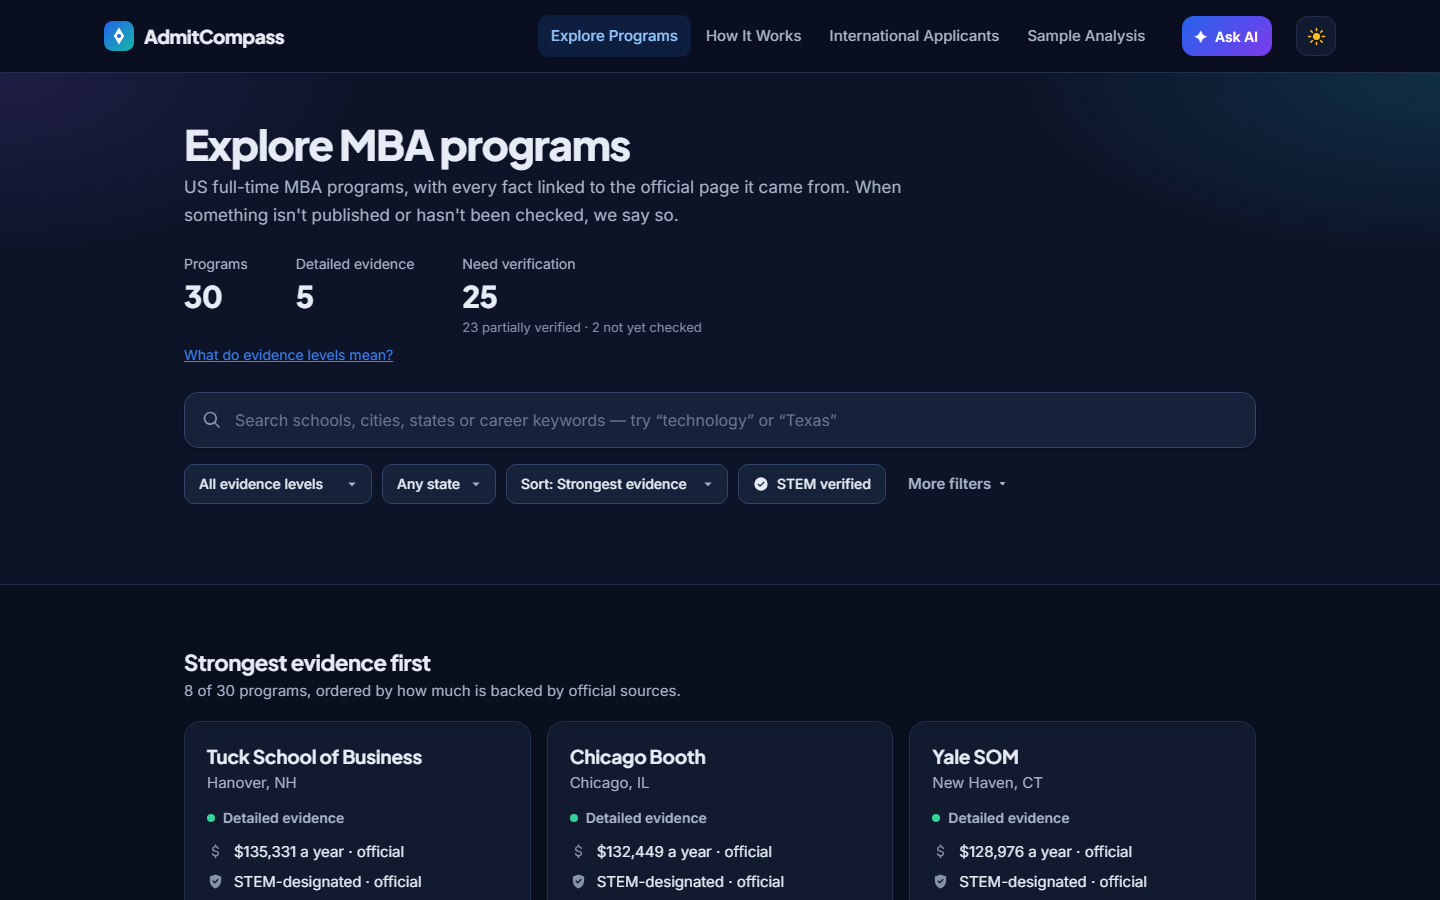
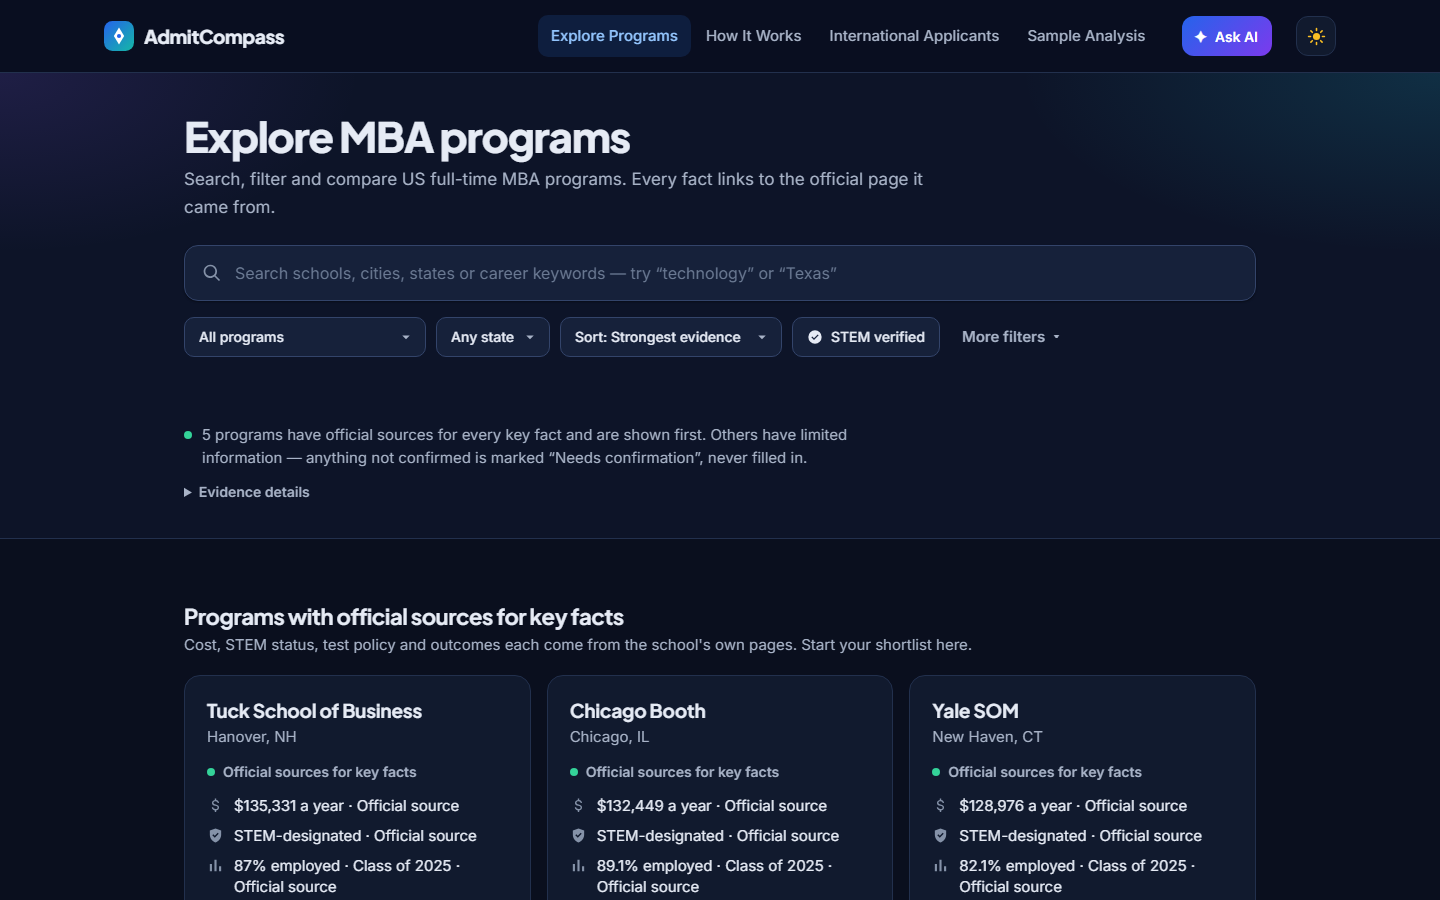
Simplify Explore header and evidence-status presentation
- Header leads with search and filters; three counters replaced by one quiet
  evidence note with an expandable Evidence details section (exact counts).
- Programs with official sources for key facts form the primary catalog;
  the rest sit under More programs to review.
- Plain-language card labels (Official source, Needs confirmation,
  Limited information); technical labels kept in Details and the legend.

diff --git a/frontend/app.js b/frontend/app.js
@@ -677,6 +677,8 @@ const EV = {
   discovered: { label: "Discovered", icon: "search", plain: "We've confirmed the program exists on its official page, but haven't collected its facts yet." },
   unavailable: { label: "Retrieval unavailable", icon: "alert", plain: "The official site refused our automated collector, so nothing about this program is verified yet." },
 };
+const EV_PLAIN = { detailed: "Official sources for key facts", partial: "Limited information", discovered: "Limited information · facts not collected yet",
+  unavailable: "Limited information · site couldn't be checked" };
 const FACT_SHORT = { location: "Location", duration_months: "Duration", application_requirements: "Requirements", test_policy: "Test policy", tuition: "Tuition",
   cost_of_attendance: "Total cost", stem_designation: "STEM", employment_rate: "Employment", median_base_salary: "Salary", industry_breakdown: "Industries",
   function_breakdown: "Functions", international_employment: "Intl. outcomes", sponsorship: "Sponsorship", application_deadlines: "Deadlines" };
@@ -687,8 +689,9 @@ async function renderExplore() {
   delete f.tier;
   S.compare = S.compare || [];
   let meta = null, seq = 0, first = null, showAll = false;
-  const FEATURED = 8;
+  const isPrimary = it => it.evidence_status === "detailed";
   const filtersActive = () => !!(f.q || f.status || f.state || f.stem || num(f.max) || f.savedOnly);
+  const moreBox = el("div");
   const grid = el("div", { class: "ex-grid", "aria-live": "polite" }), metaLine = el("div", { class: "ex-meta" }), active = el("div", { class: "active-row" }), tray = el("div");
   try { first = await api("/api/programs"); } catch { /* load() shows the error */ }
   const by = first?.counts?.by_evidence_status || {}, idx = first?.index || {};
@@ -699,7 +702,8 @@ async function renderExplore() {
   const searchInput = el("input", { type: "search", "aria-label": "Search programs", placeholder: "Search schools, cities, states or career keywords — try “technology” or “Texas”",
     oninput: e => { f.q = e.target.value; deb(load); } });
   const statusSel = el("select", { "aria-label": "Evidence status", onchange: e => { f.status = e.target.value; load(); } },
-    [["", "All evidence levels"], ...Object.entries(EV).map(([k, v]) => [k, v.label])].map(([v, t]) => el("option", { value: v, text: t })));
+    [["", "All programs"], ["detailed", "Official sources for key facts"], ["partial", "Limited information"], ["discovered", "Facts not collected yet"], ["unavailable", "Site couldn't be checked"]]
+      .map(([v, t]) => el("option", { value: v, text: t })));
   const stateSel = el("select", { "aria-label": "State", onchange: e => { f.state = e.target.value; load(); } }, el("option", { value: "", text: "Any state" }),
     (first?.states || []).map(s => el("option", { value: s, text: s })));
   const maxIn = el("input", { type: "number", inputmode: "numeric", min: 1000, step: 1000, "aria-label": "Maximum yearly cost of attendance in USD", placeholder: "Max cost / yr (USD)",
@@ -736,18 +740,27 @@ async function renderExplore() {
     if (!meta) return;
     const saved = savedSet();
     const items = f.savedOnly ? meta.items.filter(i => saved.has(i.id)) : meta.items;
-    const featured = !filtersActive() && !showAll && items.length > FEATURED;
-    const shown = featured ? items.slice(0, FEATURED) : items;
-    put(clear(metaLine), el("h2", { class: "ex-h", text: featured ? "Strongest evidence first" : filtersActive() ? `${items.length} matching program${items.length === 1 ? "" : "s"}` : `All ${items.length} programs` }),
-      el("span", { class: "ex-sub", text: featured ? `${FEATURED} of ${items.length} programs, ordered by how much is backed by official sources.` : `${sortHelp[f.sort]}.${(f.stem || num(f.max)) ? " Cost and STEM filters only match facts with official evidence." : ""}` }));
+    const primary = items.filter(isPrimary), others = items.filter(it => !isPrimary(it));
+    const grouped = !filtersActive() && primary.length > 0;
+    const shown = grouped ? primary : items;
+    put(clear(metaLine), el("h2", { class: "ex-h", text: grouped ? "Programs with official sources for key facts" : filtersActive() ? `${items.length} matching program${items.length === 1 ? "" : "s"}` : "All programs" }),
+      el("span", { class: "ex-sub", text: grouped ? "Cost, STEM status, test policy and outcomes each come from the school's own pages. Start your shortlist here."
+        : `${sortHelp[f.sort]}.${(f.stem || num(f.max)) ? " Cost and STEM filters only match facts with official evidence." : ""}` }));
     clear(grid);
     if (!items.length) { put(grid, el("div", { class: "empty2" }, el("b", { text: f.savedOnly ? "No saved programs yet" : "No programs match" }),
       el("p", { class: "small", style: "margin:6px 0 12px", text: f.savedOnly ? "Tap the heart on any program to save it." : "Try removing a filter." }),
       el("button", { type: "button", class: "btn btn-secondary", onclick: () => { Object.assign(f, DEFAULT_FILTERS); load(); }, text: "Reset filters" }))); return; }
     put(grid, shown.map(it => card(it, saved)));
-    if (!filtersActive() && items.length > FEATURED)
-      put(grid, el("div", { class: "ex-more" }, el("button", { type: "button", class: "btn btn-secondary", onclick: () => { showAll = !showAll; drawList(); if (!showAll) metaLine.scrollIntoView({ block: "start" }); },
-        text: showAll ? "Show the strongest-evidence programs only" : `View all ${items.length} programs` })));
+    clear(moreBox);
+    if (grouped && others.length) {
+      put(moreBox, el("div", { class: "ex3-more" },
+        el("h2", { class: "ex-h", text: "More programs to review" }),
+        el("p", { class: "ex-sub", text: "Limited information: some facts for these programs come from official pages, and the rest are marked “Needs confirmation”. Check them on the school's site before relying on them." }),
+        showAll ? el("div", { class: "ex-grid" }, others.map(it => card(it, saved))) : null,
+        el("button", { type: "button", class: "btn btn-secondary", "aria-expanded": showAll ? "true" : "false",
+          onclick: () => { showAll = !showAll; drawList(); if (!showAll) moreBox.scrollIntoView({ block: "start" }); },
+          text: showAll ? "Hide these programs" : "Show more programs" })));
+    }
     drawTray();
   };
   const load = async () => {
@@ -763,37 +776,41 @@ async function renderExplore() {
   function card(it, saved) {
     const st = it.evidence_status, ev = EV[st], where = [it.city, it.state].filter(Boolean).join(", ") || "Location not confirmed";
     const coa = it.cost_of_attendance, est = it.costs?.estimate_annual, emp = it.employment;
-    const cost = coa ? `${fmtUSD(coa.value)} a year · official` : est ? `About ${fmtUSD(est.value)} a year · ${est.publisher} estimate`
-      : it.tuition ? `Tuition ${fmtUSD(it.tuition.value)} a year · total not published` : "Total cost not published";
-    const stem = it.stem_designated === true ? (it.stem_partial ? "STEM-designated tracks · official" : "STEM-designated · official") : it.tier === "verified" ? "STEM status not confirmed" : "Not checked yet";
-    const job = emp ? `${emp.rate}% employed · ${emp.period}` : it.tier === "verified" ? "Employment not published" : "Not checked yet";
+    const cost = coa ? `${fmtUSD(coa.value)} a year · Official source` : est ? `About ${fmtUSD(est.value)} a year · ${est.publisher} estimate`
+      : it.tuition ? `Tuition ${fmtUSD(it.tuition.value)} a year · total cost needs confirmation` : "Total cost · Needs confirmation";
+    const stem = it.stem_designated === true ? (it.stem_partial ? "STEM-designated tracks · Official source" : "STEM-designated · Official source") : "STEM status · Needs confirmation";
+    const job = emp ? `${emp.rate}% employed · ${emp.period} · Official source` : "Employment outcomes · Needs confirmation";
     const sig = (icon, text, known) => el("li", { class: known ? "" : "unk" }, svgIcon(icon), el("span", { text }));
     return el("article", { class: `pc2 ev-${st}` },
       el("div", { class: "pc2-head" }, el("h3", { text: shortName(it) }), el("div", { class: "pc2-where", text: where })),
-      el("div", { class: `pc2-ev ev-${st}`, title: ev.plain }, el("span", { class: "dot", "aria-hidden": "true" }), ev.label),
+      el("div", { class: `pc2-ev ev-${st}`, title: ev.plain }, el("span", { class: "dot", "aria-hidden": "true" }), EV_PLAIN[st] || ev.label),
       el("ul", { class: "pc2-sig" }, sig("dollar", cost, !!(coa || est || it.tuition)), sig("shield", stem, it.stem_designated === true), sig("chart", job, !!emp)),
       el("div", { class: "pc2-acts" },
         el("button", { type: "button", class: "btn btn-secondary btn-sm", onclick: () => openDetails(it.id) }, "Details"),
         it.official_link ? el("a", { class: "pc2-link", href: it.official_link.url, target: "_blank", rel: "noopener noreferrer" }, "Official page ↗") : null));
   }
 
-  const needVerify = (by.partial || 0) + (by.discovered || 0) + (by.unavailable || 0);
   put($main,
     el("section", { class: "ex-top ex2-top" }, el("div", { class: "wrap ex2" },
       el("h1", { text: "Explore MBA programs" }),
-      el("p", { class: "ex2-lead", text: "US full-time MBA programs, with every fact linked to the official page it came from. When something isn't published or hasn't been checked, we say so." }),
-      el("dl", { class: "ex2-sum" },
-        el("div", {}, el("dt", { text: "Programs" }), el("dd", { text: String(first?.total ?? "—") })),
-        el("div", {}, el("dt", { text: "Detailed evidence" }), el("dd", { text: String(by.detailed ?? "—") })),
-        el("div", {}, el("dt", { text: "Need verification" }), el("dd", { text: String(first ? needVerify : "—") }),
-          el("span", { class: "ex2-note", text: `${by.partial ?? 0} partially verified · ${(by.discovered ?? 0) + (by.unavailable ?? 0)} not yet checked` }))),
-      el("button", { type: "button", class: "linkbtn ex2-legend", onclick: () => openLegend(), text: "What do evidence levels mean?" }),
+      el("p", { class: "ex2-lead", text: "Search, filter and compare US full-time MBA programs. Every fact links to the official page it came from." }),
       el("div", { class: "ex-search" }, svgIcon("search"), searchInput),
       el("div", { class: "ex2-filters", role: "group", "aria-label": "Filters" },
         el("div", { class: "fsel" }, statusSel), el("div", { class: "fsel" }, stateSel), el("div", { class: "fsel" }, sortSel), stemBtn,
         el("details", { class: "ex2-more" }, el("summary", { text: "More filters" }), el("div", { class: "ex2-more-body" }, el("div", { class: "fsel" }, maxIn), savedBtn))),
-      active)),
-    el("section", { class: "ex2-list" }, el("div", { class: "wrap ex2" }, metaLine, grid,
+      active,
+      el("div", { class: "ex3-note" },
+        el("p", {}, el("span", { class: "dot", "aria-hidden": "true" }),
+          `${by.detailed ?? "Some"} programs have official sources for every key fact and are shown first. Others have limited information — anything not confirmed is marked “Needs confirmation”, never filled in.`),
+        el("details", { class: "ex3-details" }, el("summary", { text: "Evidence details" }),
+          el("div", { class: "ex3-details-body" },
+            el("ul", {},
+              el("li", {}, el("b", { text: `${by.detailed ?? "—"} detailed evidence` }), " — cost, STEM status, test policy and outcomes each supported by an official source."),
+              el("li", {}, el("b", { text: `${by.partial ?? "—"} partially verified` }), " — some facts from official pages; the rest weren't published or haven't been checked."),
+              el("li", {}, el("b", { text: `${(by.discovered ?? 0) + (by.unavailable ?? 0)} discovered only` }), ` (${by.discovered ?? 0} with facts not yet collected, ${by.unavailable ?? 0} whose site couldn't be checked) — these programs were discovered from official university pages, but we have not verified enough facts to use them in detailed recommendations.`)),
+            el("p", { text: "Sample analyses use only the programs with detailed evidence. A personal analysis can include any program with official facts; facts that aren't verified are shown as needing confirmation." }),
+            el("button", { type: "button", class: "linkbtn", onclick: () => openLegend(), text: "What do evidence levels mean?" })))))),
+    el("section", { class: "ex2-list" }, el("div", { class: "wrap ex2" }, metaLine, grid, moreBox,
       el("p", { class: "ex-foot", text: "Employment rates use each school's own definition and graduating class, so they aren't directly comparable — Details shows each definition. Save and compare programs from Details." }))),
     tray);
   load();

diff --git a/frontend/index.html b/frontend/index.html
@@ -7,14 +7,14 @@
   <meta name="description" content="Career-first MBA discovery with verified program facts and an actionable application plan, built for international applicants.">
   <link rel="preload" href="/static/fonts/inter-latin-var.woff2" as="font" type="font/woff2" crossorigin>
   <link rel="preload" href="/static/fonts/plus-jakarta-sans-latin-var.woff2" as="font" type="font/woff2" crossorigin>
-  <link rel="stylesheet" href="/static/styles.css?v=154">
-  <link rel="stylesheet" href="/static/styles-v4.css?v=154">
-  <link rel="stylesheet" href="/static/styles-color.css?v=154">
-  <link rel="stylesheet" href="/static/styles-dash.css?v=154">
-  <link rel="stylesheet" href="/static/styles-dark.css?v=154" id="dark-theme">
-  <link rel="stylesheet" href="/static/styles-home.css?v=154">
-  <link rel="stylesheet" href="/static/styles-copilot.css?v=154">
-  <link rel="stylesheet" href="/static/styles-pages.css?v=154">
+  <link rel="stylesheet" href="/static/styles.css?v=157">
+  <link rel="stylesheet" href="/static/styles-v4.css?v=157">
+  <link rel="stylesheet" href="/static/styles-color.css?v=157">
+  <link rel="stylesheet" href="/static/styles-dash.css?v=157">
+  <link rel="stylesheet" href="/static/styles-dark.css?v=157" id="dark-theme">
+  <link rel="stylesheet" href="/static/styles-home.css?v=157">
+  <link rel="stylesheet" href="/static/styles-copilot.css?v=157">
+  <link rel="stylesheet" href="/static/styles-pages.css?v=157">
   <meta name="theme-color" content="#0A0F1E">
   <script>
     /* Apply the saved theme before first paint (dark is the default). */
@@ -75,6 +75,6 @@
     <div class="wrap footer2-note">AdmitCompass offers decision support, not admissions, legal or immigration advice. It never estimates admission chances or promises visa sponsorship. Detailed program facts come from official sources captured on 23 October 2026.</div>
   </footer>
   <div id="modal-root"></div>
-  <script src="/static/app.js?v=154"></script>
+  <script src="/static/app.js?v=157"></script>
 </body>
 </html>

diff --git a/frontend/styles-pages.css b/frontend/styles-pages.css
@@ -126,3 +126,19 @@ body.cp-open .cp-launch { display: inline-flex; }
 .menu-btn, .theme-btn, .cp-launch { flex: none; }
 .topbar .brand { min-width: 0; }
 @media (max-width: 400px) { .topbar .brand { font-size: 17px; gap: 8px; } }
+
+/* ---------- Explore: shorter header, one quiet evidence note ---------- */
+.ex2-top { padding: 40px 0 28px; }
+.ex2-top .ex2-lead { margin-bottom: 4px; }
+.ex3-note { margin-top: 18px; font-size: 15px; color: var(--text-2); }
+.ex3-note > p { margin: 0; display: flex; gap: 10px; align-items: baseline; line-height: 1.55; }
+.ex3-note .dot { width: 8px; height: 8px; flex: none; border-radius: 50%; background: var(--emerald, #10B981); transform: translateY(-1px); }
+.ex3-details { margin-top: 6px; }
+.ex3-details > summary { cursor: pointer; font-size: 14px; font-weight: 600; color: var(--text-2); padding: 6px 0; min-height: 32px; }
+.ex3-details-body { padding: 6px 0 4px 18px; font-size: 14px; line-height: 1.6; }
+.ex3-details-body ul { margin: 0 0 8px; padding-left: 18px; display: grid; gap: 4px; }
+.ex3-details-body p { margin: 0 0 6px; }
+.ex3-more { margin-top: 48px; padding-top: 32px; border-top: 1px solid var(--border); }
+.ex3-more .ex-grid { margin: 20px 0; }
+.ex3-more > .btn { margin-top: 16px; }
+.ex2 .active-row:empty { display: none; }
